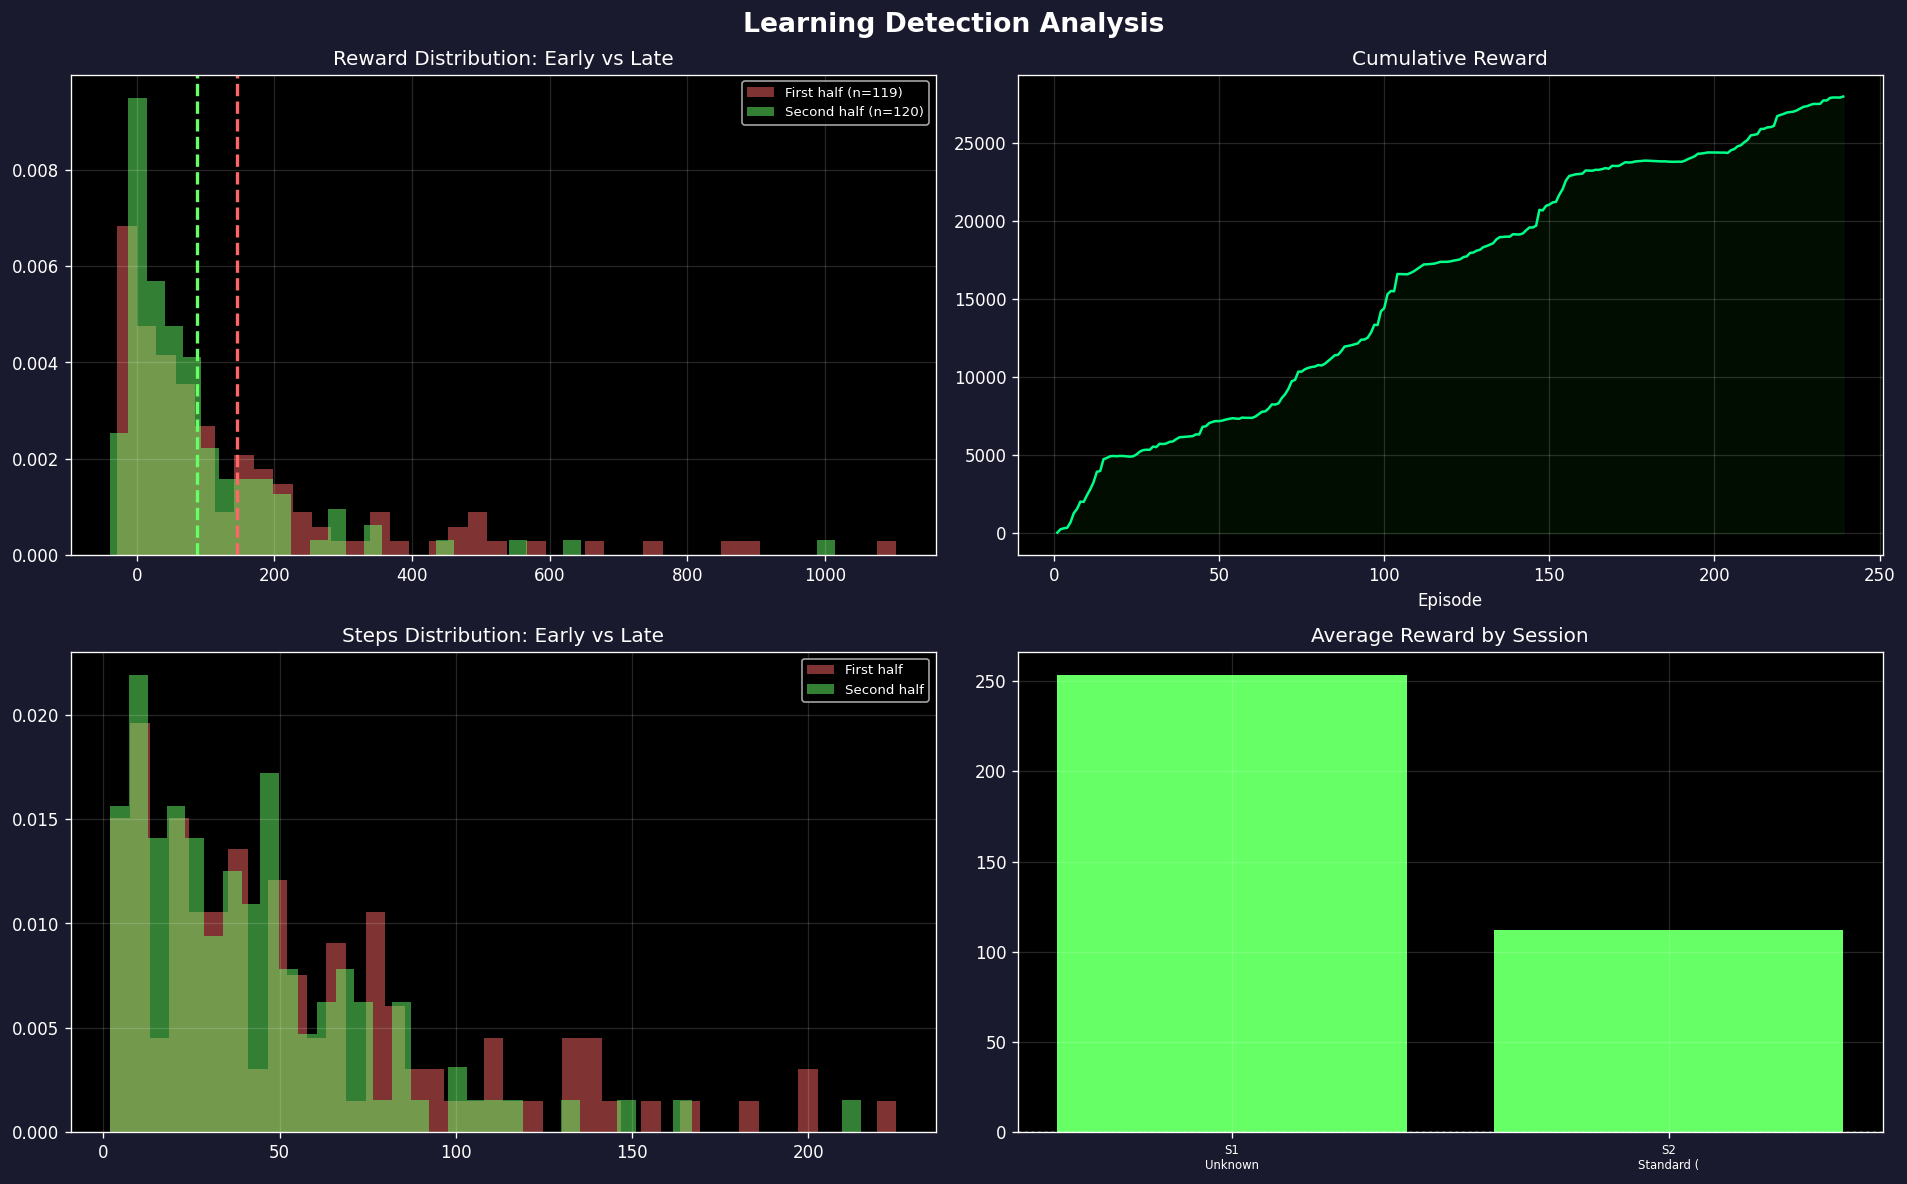
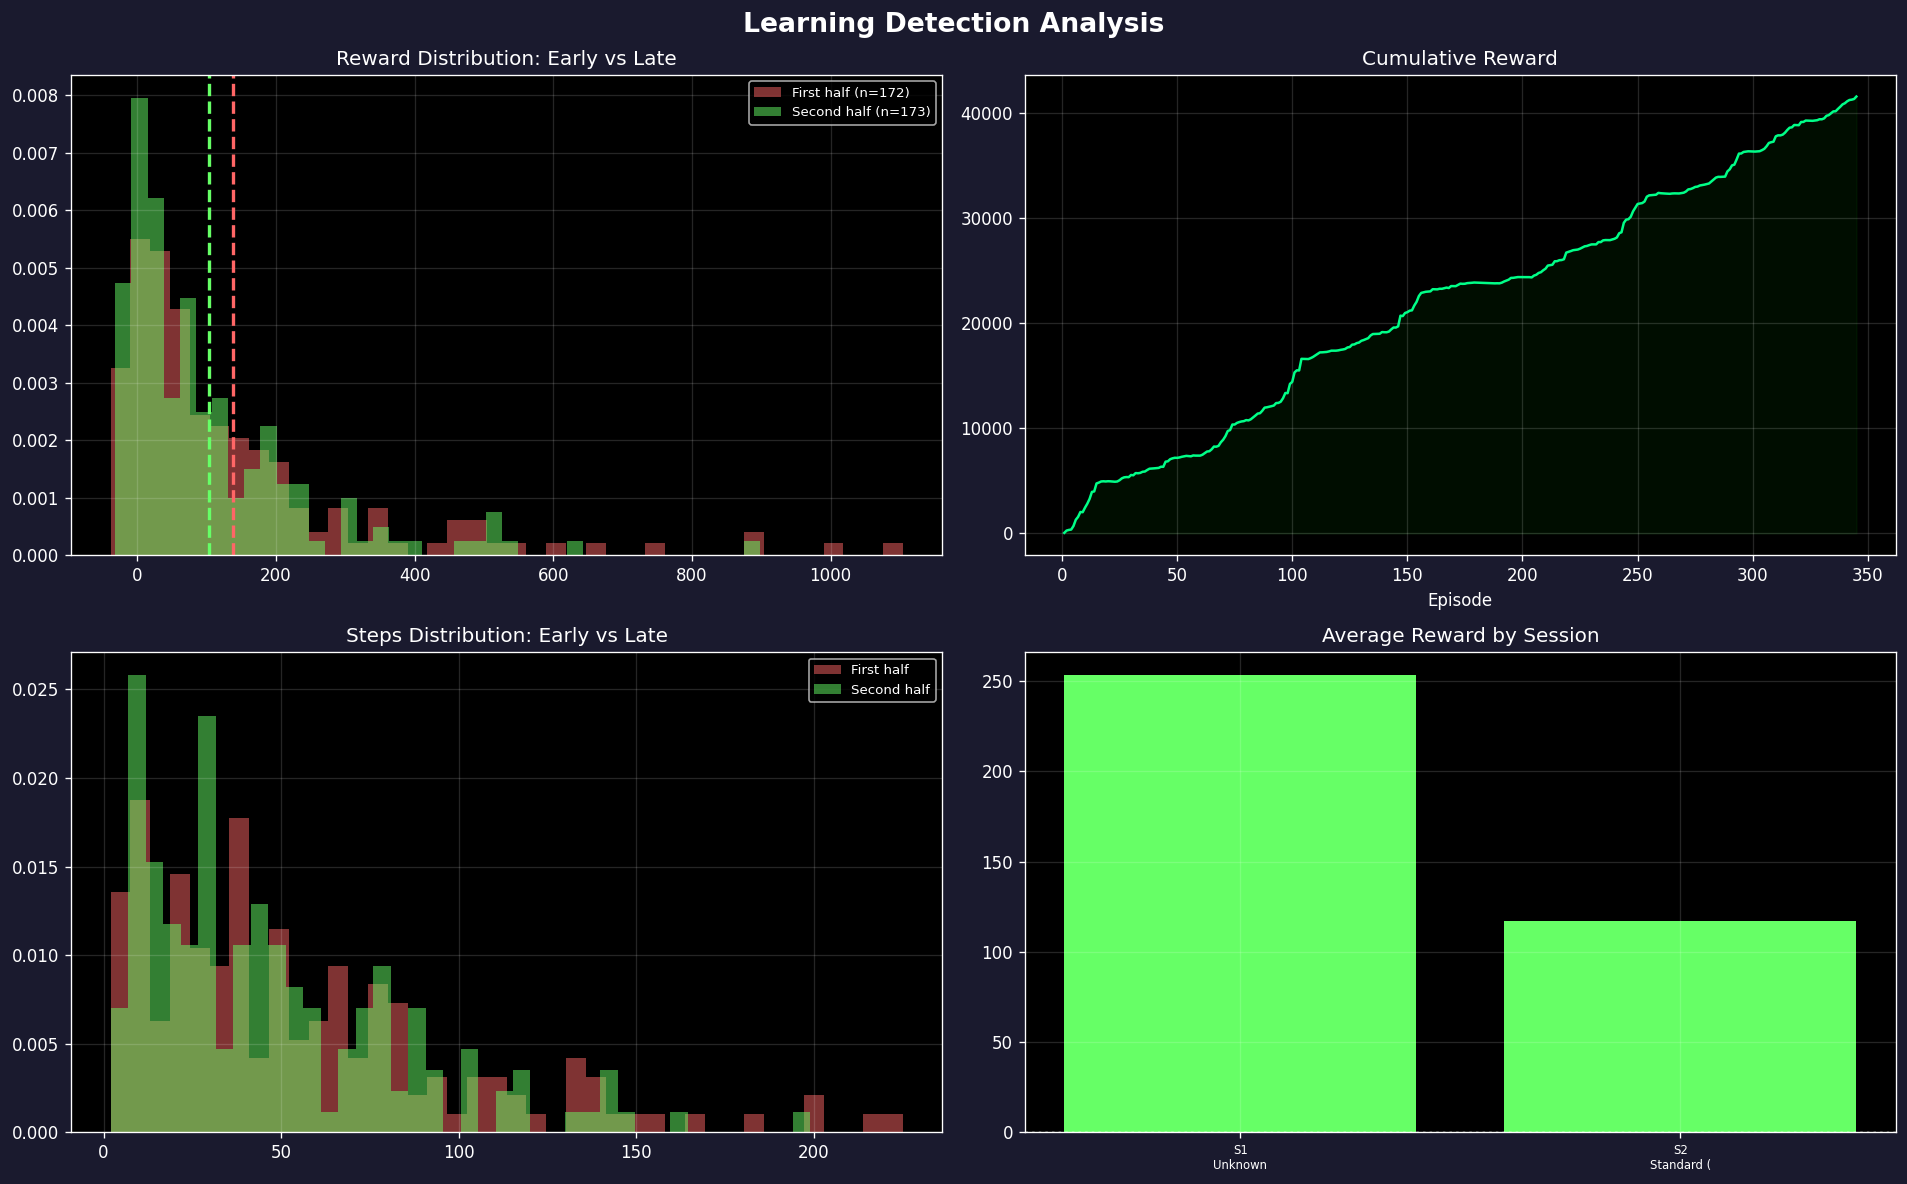
stats

diff --git a/gen2/progress_report.md b/gen2/progress_report.md
@@ -1,19 +1,16 @@
 # Slither.io Bot - Training Progress Report
 
-**Generated:** 2026-02-12 17:50:21  
-**Total Episodes:** 239  
+**Generated:** 2026-02-12 18:00:25  
+**Total Episodes:** 345  
 **Training Sessions:** 2
 
-## Verdict: NOT LEARNING (Confidence: 25%)
+## Verdict: NOT LEARNING (Confidence: 45%)
 
-**Goal Feasibility:** VERY UNLIKELY (<5% chance)
-
-### Critical Issues
-- Rewards DECLINING: -57.9 (getting worse)
-- Very short episodes: avg=49 steps (dying too fast)
+**Goal Feasibility:** UNLIKELY (5-25% chance) without tuning
 
 ### Warnings
-- Loss very high (40.28) - training unstable
+- Rewards flat: change = -33.8 between halves
+- Loss very high (41.08) - training unstable
 
 ### Positive Signals
 - Loss decreasing (model converging)
@@ -22,10 +19,10 @@
 
 | Metric | Mean | Std | Min | Max | P50 | P95 |
 |--------|------|-----|-----|-----|-----|-----|
-| Reward | 116.97 | 178.18 | -38.52 | 1104.08 | 57.84 | 485.20 |
-| Steps | 49.24 | 42.48 | 2.00 | 225.00 | 38.00 | 139.00 |
-| Food | 25.85 | 8.69 | 0.00 | 62.00 | 24.00 | 41.00 |
-| Loss | 59.25 | 50.22 | 0.00 | 588.59 | 48.45 | 123.19 |
+| Reward | 120.44 | 171.93 | -38.52 | 1104.08 | 63.41 | 486.17 |
+| Steps | 50.60 | 41.73 | 2.00 | 225.00 | 40.00 | 139.00 |
+| Food | 26.11 | 8.48 | 0.00 | 62.00 | 24.00 | 41.80 |
+| Loss | 51.92 | 44.72 | 0.00 | 588.59 | 40.77 | 116.10 |
 
 ## Goal Progress
 
@@ -39,14 +36,14 @@
 | # | Style | Episodes | Avg Reward | Avg Steps |
 |---|-------|----------|------------|----------|
 | 1 | Unknown | 1-8 | 253.5 | 86 |
-| 2 | Standard (Curriculum) | 9-239 | 112.2 | 48 |
+| 2 | Standard (Curriculum) | 9-345 | 117.3 | 50 |
 
 ## Recommendations
 
-Significant issues detected. Major changes needed:
-  1. Fix learning rate and optimizer state
-  2. Simplify reward structure
-  3. Ensure episodes can last long enough to learn from
+Some learning signals present but not strong enough.
+  1. Fine-tune hyperparameters
+  2. Increase training duration significantly
+  3. Consider curriculum adjustments
 
 1. Average episode too short. Consider:
      - Reducing death penalties to avoid discouraging exploration
